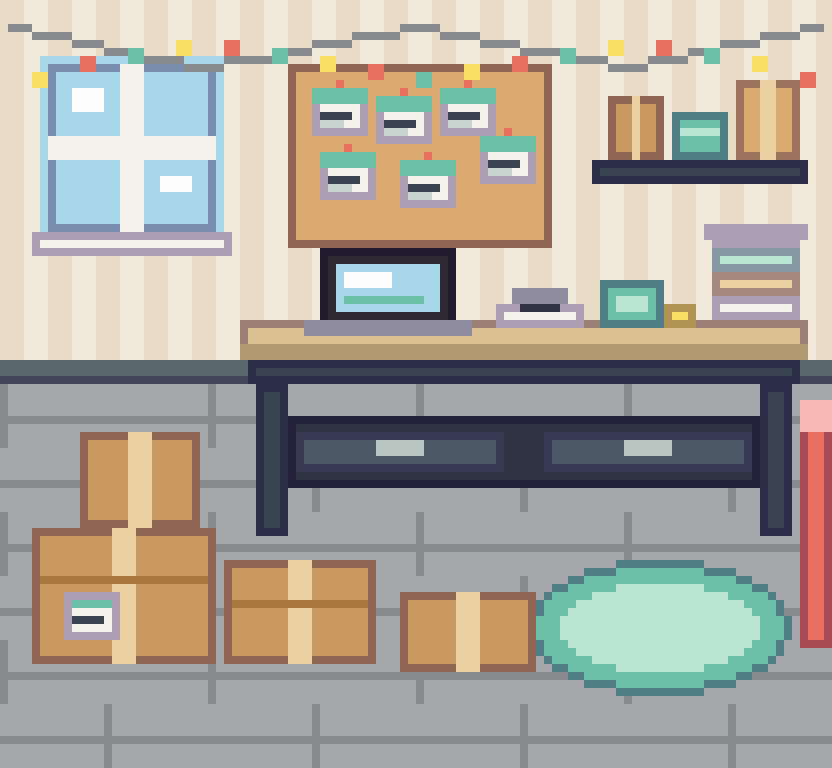
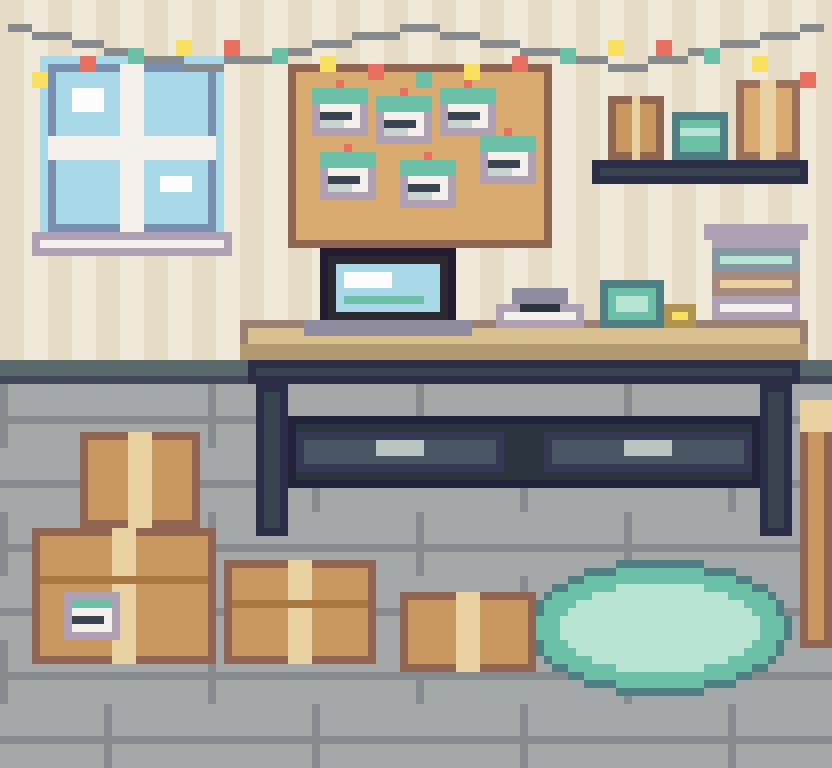
場景修正：咖啡廳地板改低對比、包裝紙捲改牛皮紙色、街頭天空色帶抖色過渡
Claude-Session: https://claude.ai/code/session_01GPGckXxrcra9392X2w1mT8

Changed region(s): [[0.9375, 0.5625, 1.0, 0.8438]]

diff --git a/secondhand/tools/pixel_art/scenes.py b/secondhand/tools/pixel_art/scenes.py
@@ -126,7 +126,7 @@ def packing_corner():
     sc.add(L_FLOOR, 82, lambda: (tape(28, 70, 46, 82), R(29, 75, 45, 75, KRD)))
     sc.add(L_FLOOR, 83, lambda: tape(50, 74, 66, 83))
     def roll():
-        R(100, 50, 103, 80, CORAL, True); R(100, 50, 103, 53, '#f4b8b0')
+        R(100, 50, 103, 80, KR, True); R(100, 50, 103, 53, KR3)
     sc.add(L_FLOOR, 80, roll)
     sc.add(L_LIGHT, 0, lambda: string_lights(sc, ('#f8e060', '#e87060', '#6cc0a8'), '#868a8c'))
     return sc.draw()
@@ -143,7 +143,7 @@ def cafe():
             for x in range(((y//4) % 2)*6, W, 12): R(x, y-3, x, y, BRICK2)
         R(0, 32, W-1, 32, '#f4ecd8'); R(0, 47, W-1, 47, '#5a2e22')
         for y in range(48, HH, 8):                  # 地板：米色與咖啡色棋盤磚（8×8）
-            for x in range(0, W, 8): R(x, y, x+7, y+7, '#e8d8b8' if ((x//8)+(y//8)) % 2 == 0 else '#8c5c3c')
+            for x in range(0, W, 8): R(x, y, x+7, y+7, '#e8d8b8' if ((x//8)+(y//8)) % 2 == 0 else '#dcc8a2')   # 兩個接近的米色，低對比，人物站上去才讀得出來
     sc.add(L_WALL, 0, walls)
     def window():   # 窗戶（中心 x=22）：街景、十字窗框、窗台與遮陽篷，條紋以中心對稱
         R(6, 12, 38, 38, '#a8d8e8', True)
@@ -208,8 +208,12 @@ def street():
     sc = Scene(); R = sc.R
     NEON_P, NEON_T, DARK = '#f060a8', '#40e0d0', '#2c2840'
     def sky():
-        for i, c in enumerate(['#2c2860', '#3c3478', '#5a4090', '#8a4a98', '#c0587c', '#e88860']):
-            R(0, i*8, W-1, i*8+7, c)
+        bands = ['#2c2860', '#3c3478', '#5a4090', '#8a4a98', '#c0587c', '#e88860']
+        for i, c in enumerate(bands): R(0, i*8, W-1, i*8+7, c)
+        for i in range(1, len(bands)):   # 色帶交界用抖色（棋盤式交錯）過渡
+            for x in range(W):
+                if (x+i) % 2 == 0: R(x, i*8-1, x, i*8-1, bands[i])
+                else: R(x, i*8, x, i*8, bands[i-1])
         for (x, y) in [(6, 3), (20, 8), (38, 4), (60, 6), (82, 2), (96, 9), (50, 12)]: R(x, y, x, y, '#f4f0ec')
         # 遠景天際線（兩層）
         for (x0, x1, y0) in [(0, 9, 30), (10, 22, 24), (23, 34, 32), (35, 48, 26), (49, 60, 33), (61, 75, 22), (76, 88, 30), (89, 103, 25)]:
